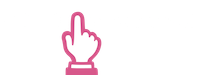
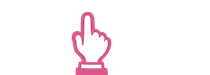
art shtuff, bleh

Changed region(s): [[0.3, 0.1333, 0.54, 1.0]]

diff --git a/model/index.html b/model/index.html
@@ -34,10 +34,10 @@
 			<!-- Playback -->
 			<div class="control_button" id="play_pause">pause</div>
 			<div class="control_speed">
-				<input id="control_fps" type="range" min="1" max="60" step="1" style="width:100%; margin:0;">
+				<input id="control_fps" type="range" min="1" max="60" step="1">
 				<br>
-				<div style="float:left">slow</div>
-				<div style="float:right">fast</div>
+				<div style="float:left;">slow<!--🐢--></div>
+				<div style="float:right;">fast<!--🐇--></div>
 			</div>
 			<div class="control_button" id="play_step">step</div>
 			<div class="control_divider"></div>

diff --git a/model/styles/model.css b/model/styles/model.css
@@ -322,6 +322,15 @@ THE PLAY CONTROLS
 	margin: 5px;
 	margin-bottom: 0;
 }
+#play_controls > div.control_speed > input{
+	width:100%; margin:0;
+}
+#play_controls > div.control_speed > div{
+	/*width: 13px;
+	height: 16px;
+    line-height: 16px;*/
+    font-size: 14px;
+}
 #play_controls > div.control_divider{
 	border-left: 1px solid #ccc;
 	border-right: 1px solid #ccc;

diff --git a/styles/index.css b/styles/index.css
@@ -53,11 +53,11 @@ b, strong{
 }
 #splash_hand{
 	margin: 0 auto;
-    width: 200px;
+    width: 210px;
     height: 75px;
     background: url(its_interactive.png);
     position: relative;
-    left: 370px;
+    left: 360px;
 }
 
 /** THE ESSAY **/

diff --git a/model/scripts/engine/Model.js b/model/scripts/engine/Model.js
@@ -97,6 +97,7 @@ as well as serialize & deserialize.
 			steps++;
 			_ticker -= tickerLimit;
 		}
+		if(steps>3) steps=3; // yeah don't go overboard here.
 
 		// Paused, or not seen - also don't update
 		if(!Model.data.meta.play) return;
